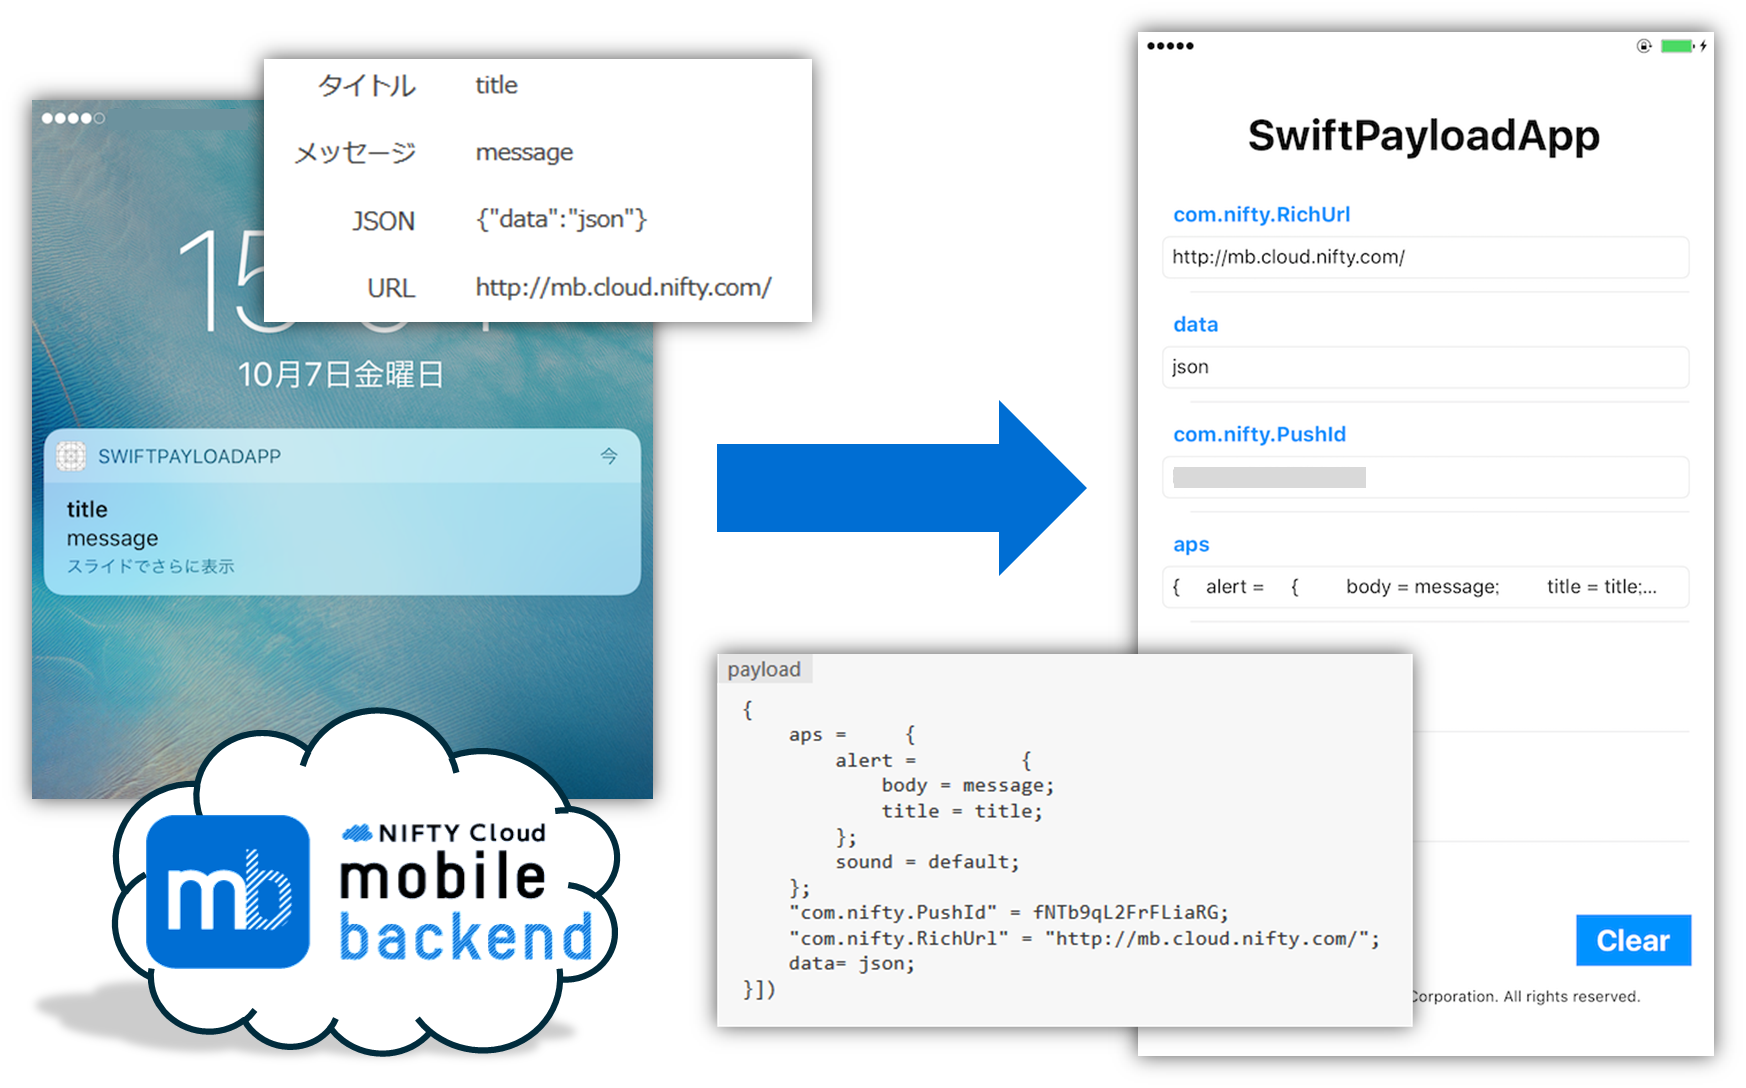
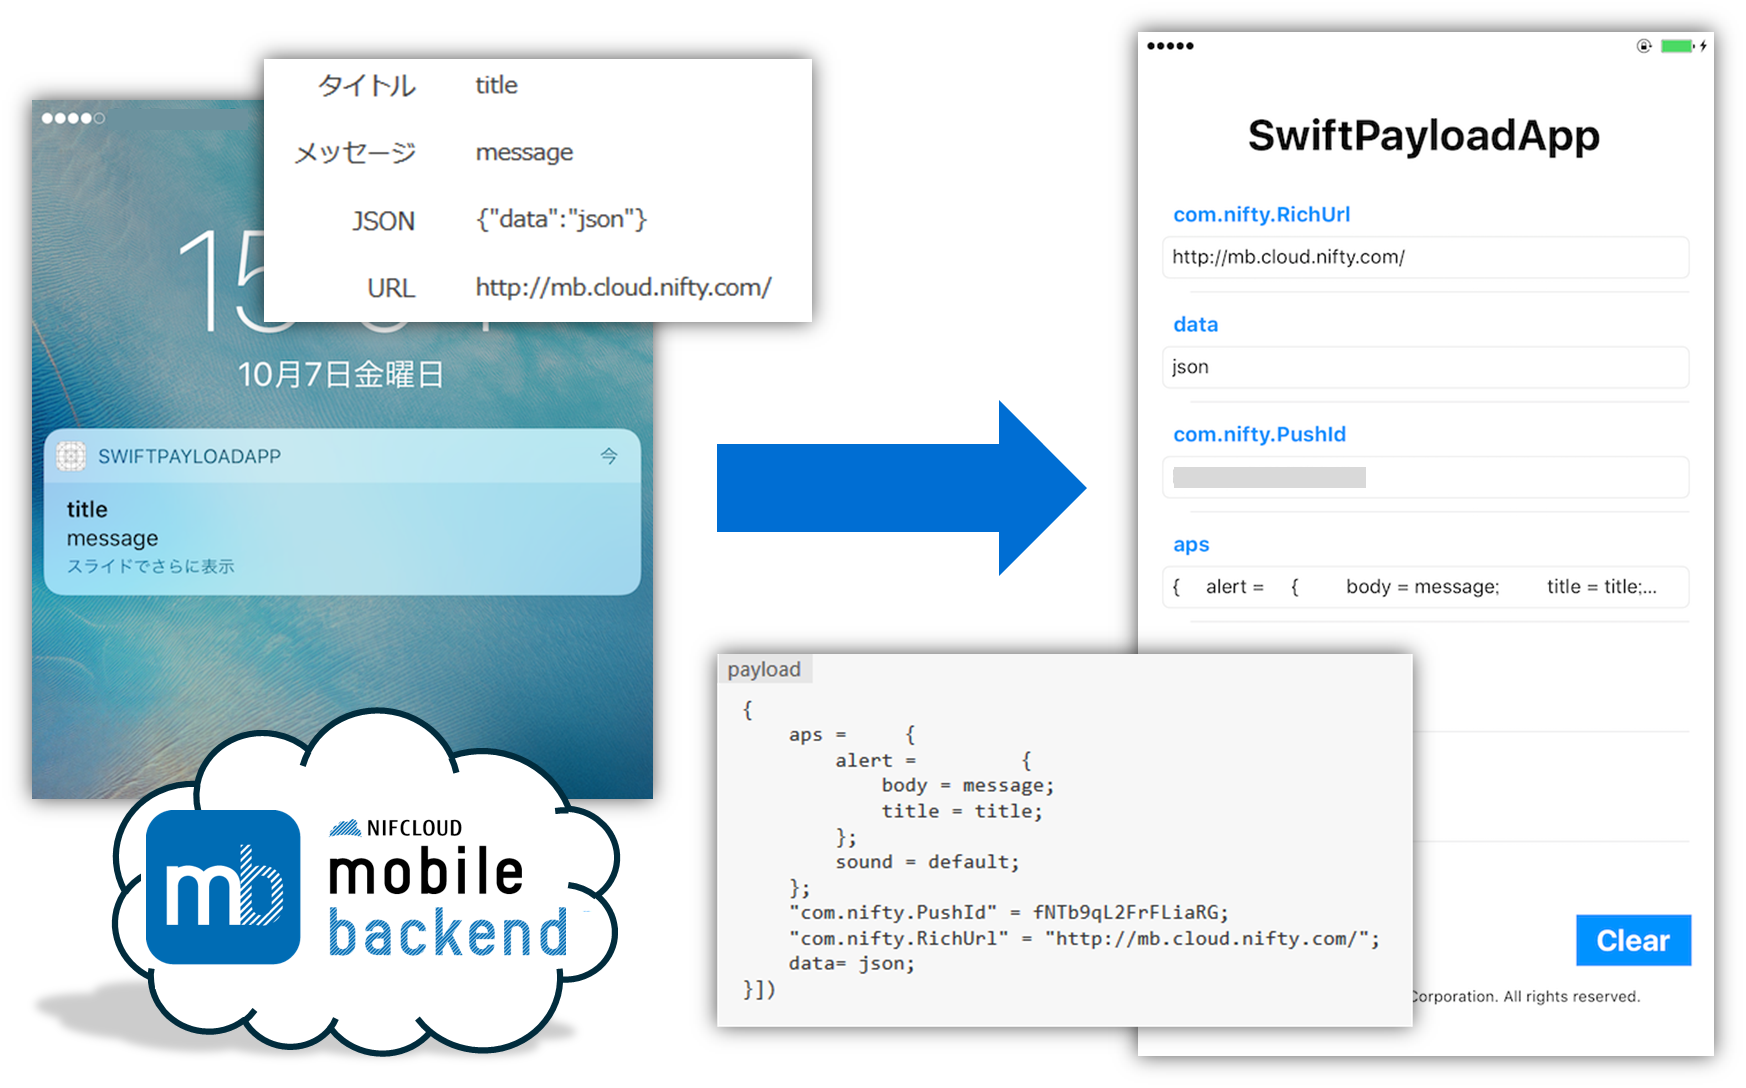
Update readme and images

Changed region(s): [[0.0619, 0.7188, 0.3402, 0.9062]]

diff --git a/SwiftPayloadApp/AppDelegate.swift b/SwiftPayloadApp/AppDelegate.swift
@@ -3,7 +3,7 @@
 //  SwiftPayloadApp
 //
 //  Created by Natsumo Ikeda on 2016/10/07.
-//  Copyright 2017 FUJITSU CLOUD TECHNOLOGIES LIMITED All Rights Reserved.
+//  Copyright 2019 FUJITSU CLOUD TECHNOLOGIES LIMITED All Rights Reserved.
 //
 
 import UIKit

diff --git a/SwiftPayloadApp/TableViewCell.swift b/SwiftPayloadApp/TableViewCell.swift
@@ -3,7 +3,7 @@
 //  SwiftPayloadApp
 //
 //  Created by Natsumo Ikeda on 2016/10/07.
-//  Copyright 2017 FUJITSU CLOUD TECHNOLOGIES LIMITED All Rights Reserved.
+//  Copyright 2019 FUJITSU CLOUD TECHNOLOGIES LIMITED All Rights Reserved.
 //
 
 import UIKit

diff --git a/SwiftPayloadApp/ViewController.swift b/SwiftPayloadApp/ViewController.swift
@@ -3,7 +3,7 @@
 //  SwiftPayloadApp
 //
 //  Created by Natsumo Ikeda on 2016/10/07.
-//  Copyright 2017 FUJITSU CLOUD TECHNOLOGIES LIMITED All Rights Reserved.
+//  Copyright 2019 FUJITSU CLOUD TECHNOLOGIES LIMITED All Rights Reserved.
 //
 
 import UIKit
